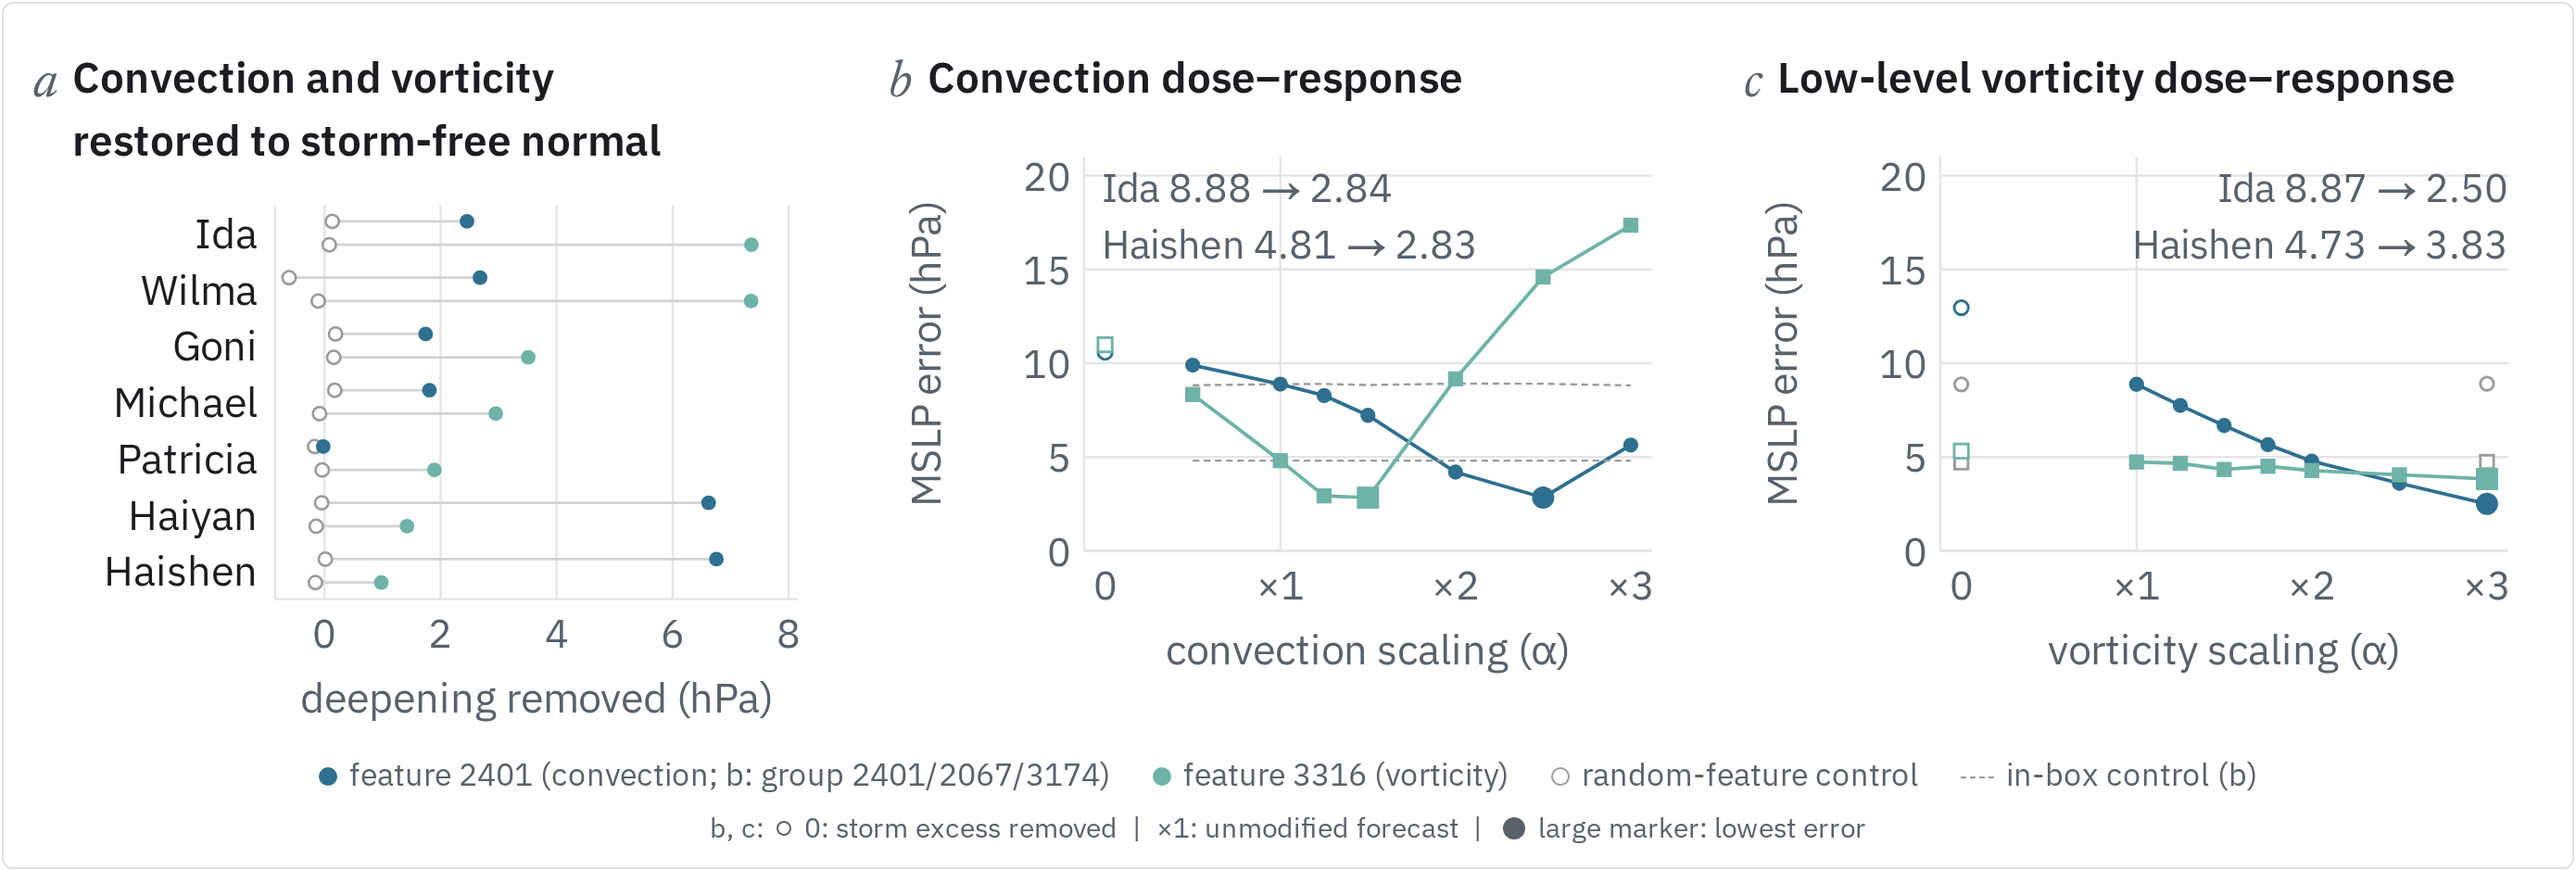
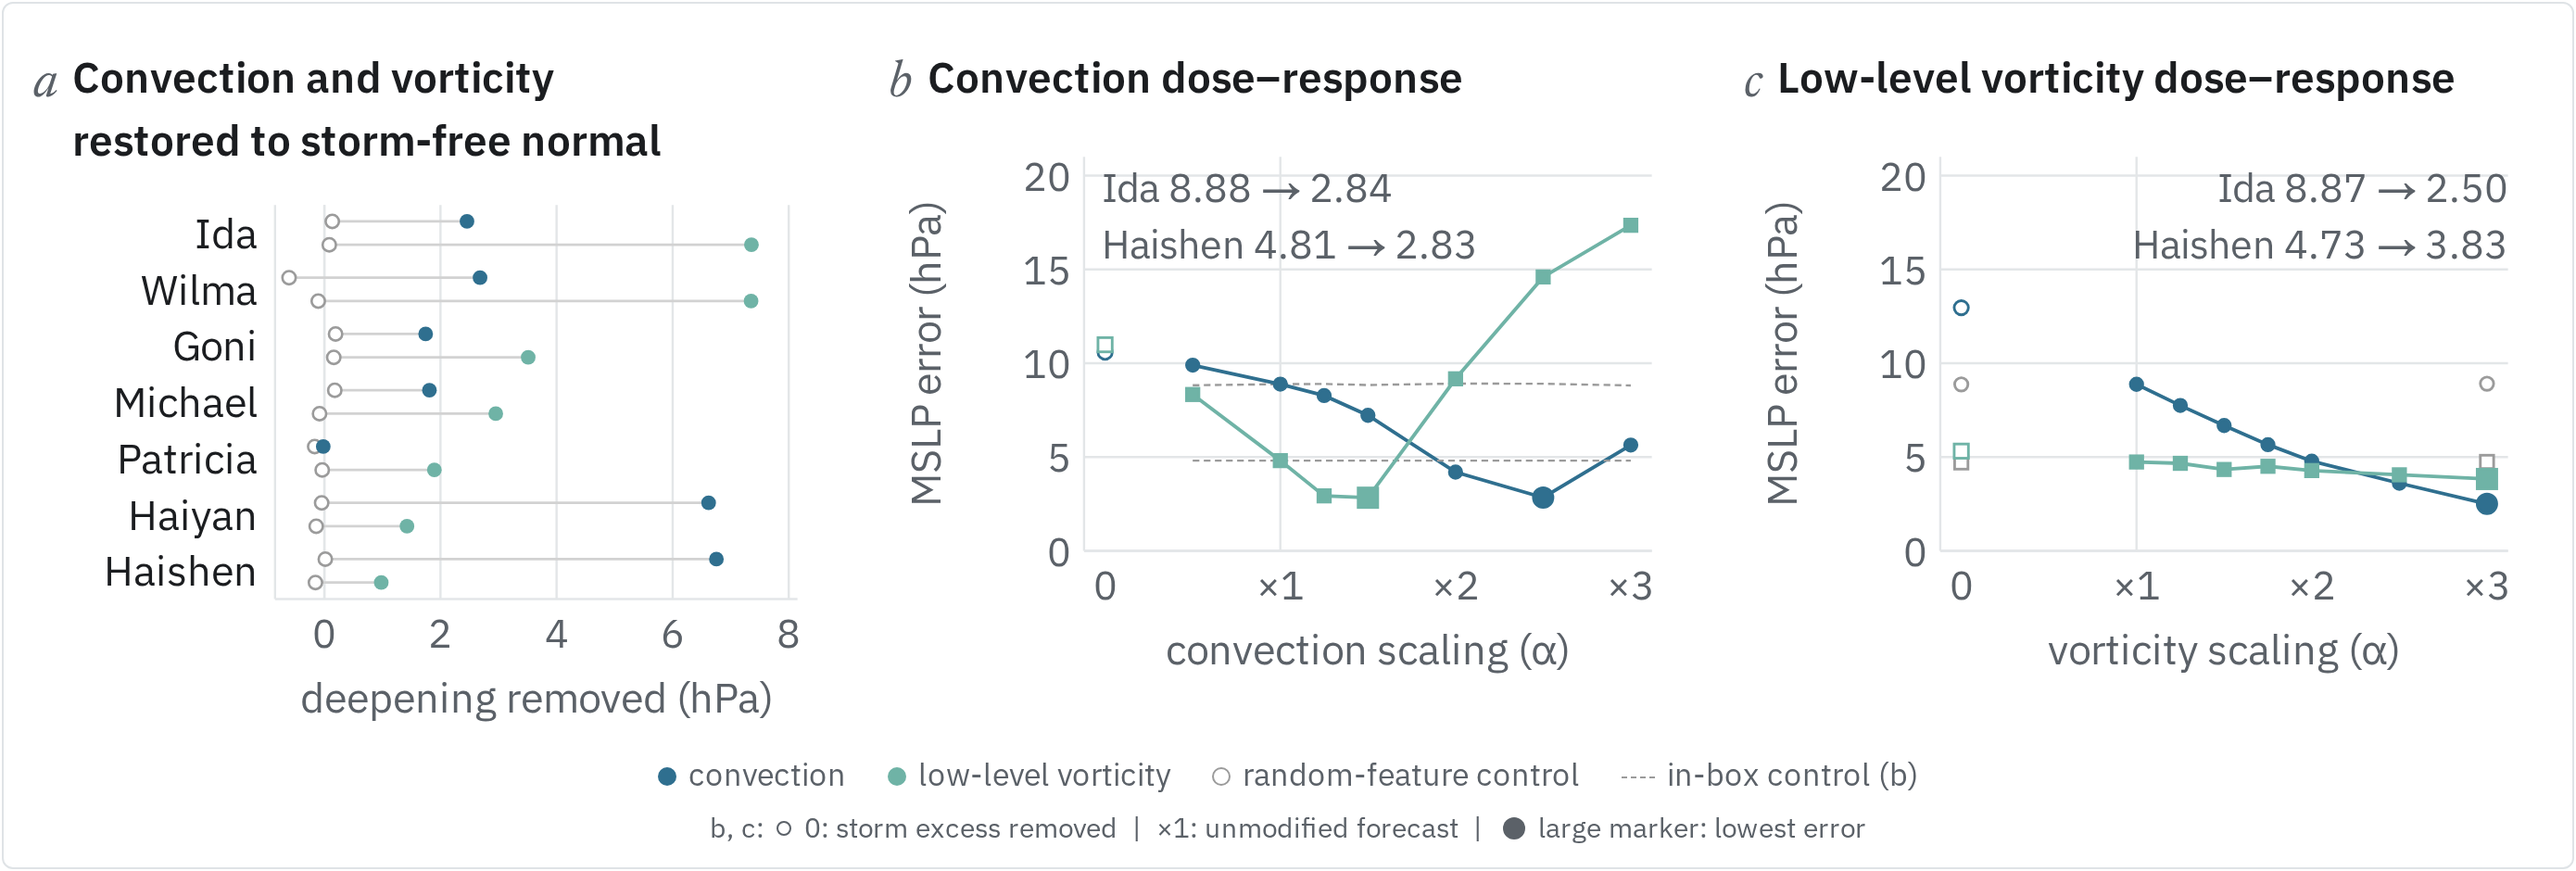
Fig. 2 legend: convection / low-level vorticity (the caption names the features per panel)

Changed region(s): [[0.1237, 0.8638, 0.7424, 0.9255], [0.7734, 0.8638, 0.8662, 0.8947]]

diff --git a/figures/main_claims/figure2_final_web_notitle_print.html b/figures/main_claims/figure2_final_web_notitle_print.html
@@ -113,8 +113,8 @@ figure{padding:14px 16px 10px;background:#ffffff}
     <div class="panel"><p class="ptitle"><b>c</b><span>Low-level vorticity dose–response</span></p><div id="f2c"></div></div>
   </div>
   <div class="f2legend">
-    <span><i class="dot" style="background:var(--blue)"></i>feature 2401 (convection; b: group 2401/2067/3174)</span>
-    <span><i class="dot" style="background:var(--glass)"></i>feature 3316 (vorticity)</span>
+    <span><i class="dot" style="background:var(--blue)"></i>convection</span>
+    <span><i class="dot" style="background:var(--glass)"></i>low-level vorticity</span>
     <span><i class="dot ring"></i>random-feature control</span>
     <span><i class="dash"></i>in-box control (b)</span>
     <span class="sub">b, c: <i class="dot ring small"></i>0: storm excess removed &nbsp;|&nbsp; &times;1: unmodified forecast &nbsp;|&nbsp; <i class="dot big"></i>large marker: lowest error</span>

diff --git a/figures/main_claims/build_figure2.py b/figures/main_claims/build_figure2.py
@@ -130,8 +130,8 @@ doseResponse("f2c", "gspin", "vorticity scaling (α)", "MSLP error against vorti
 """
 
 LEGEND = """  <div class="f2legend">
-    <span><i class="dot" style="background:var(--blue)"></i>feature 2401 (convection; b: group 2401/2067/3174)</span>
-    <span><i class="dot" style="background:var(--glass)"></i>feature 3316 (vorticity)</span>
+    <span><i class="dot" style="background:var(--blue)"></i>convection</span>
+    <span><i class="dot" style="background:var(--glass)"></i>low-level vorticity</span>
     <span><i class="dot ring"></i>random-feature control</span>
     <span><i class="dash"></i>in-box control (b)</span>
     <span class="sub">b, c: <i class="dot ring small"></i>0: storm excess removed &nbsp;|&nbsp; &times;1: unmodified forecast &nbsp;|&nbsp; <i class="dot big"></i>large marker: lowest error</span>
